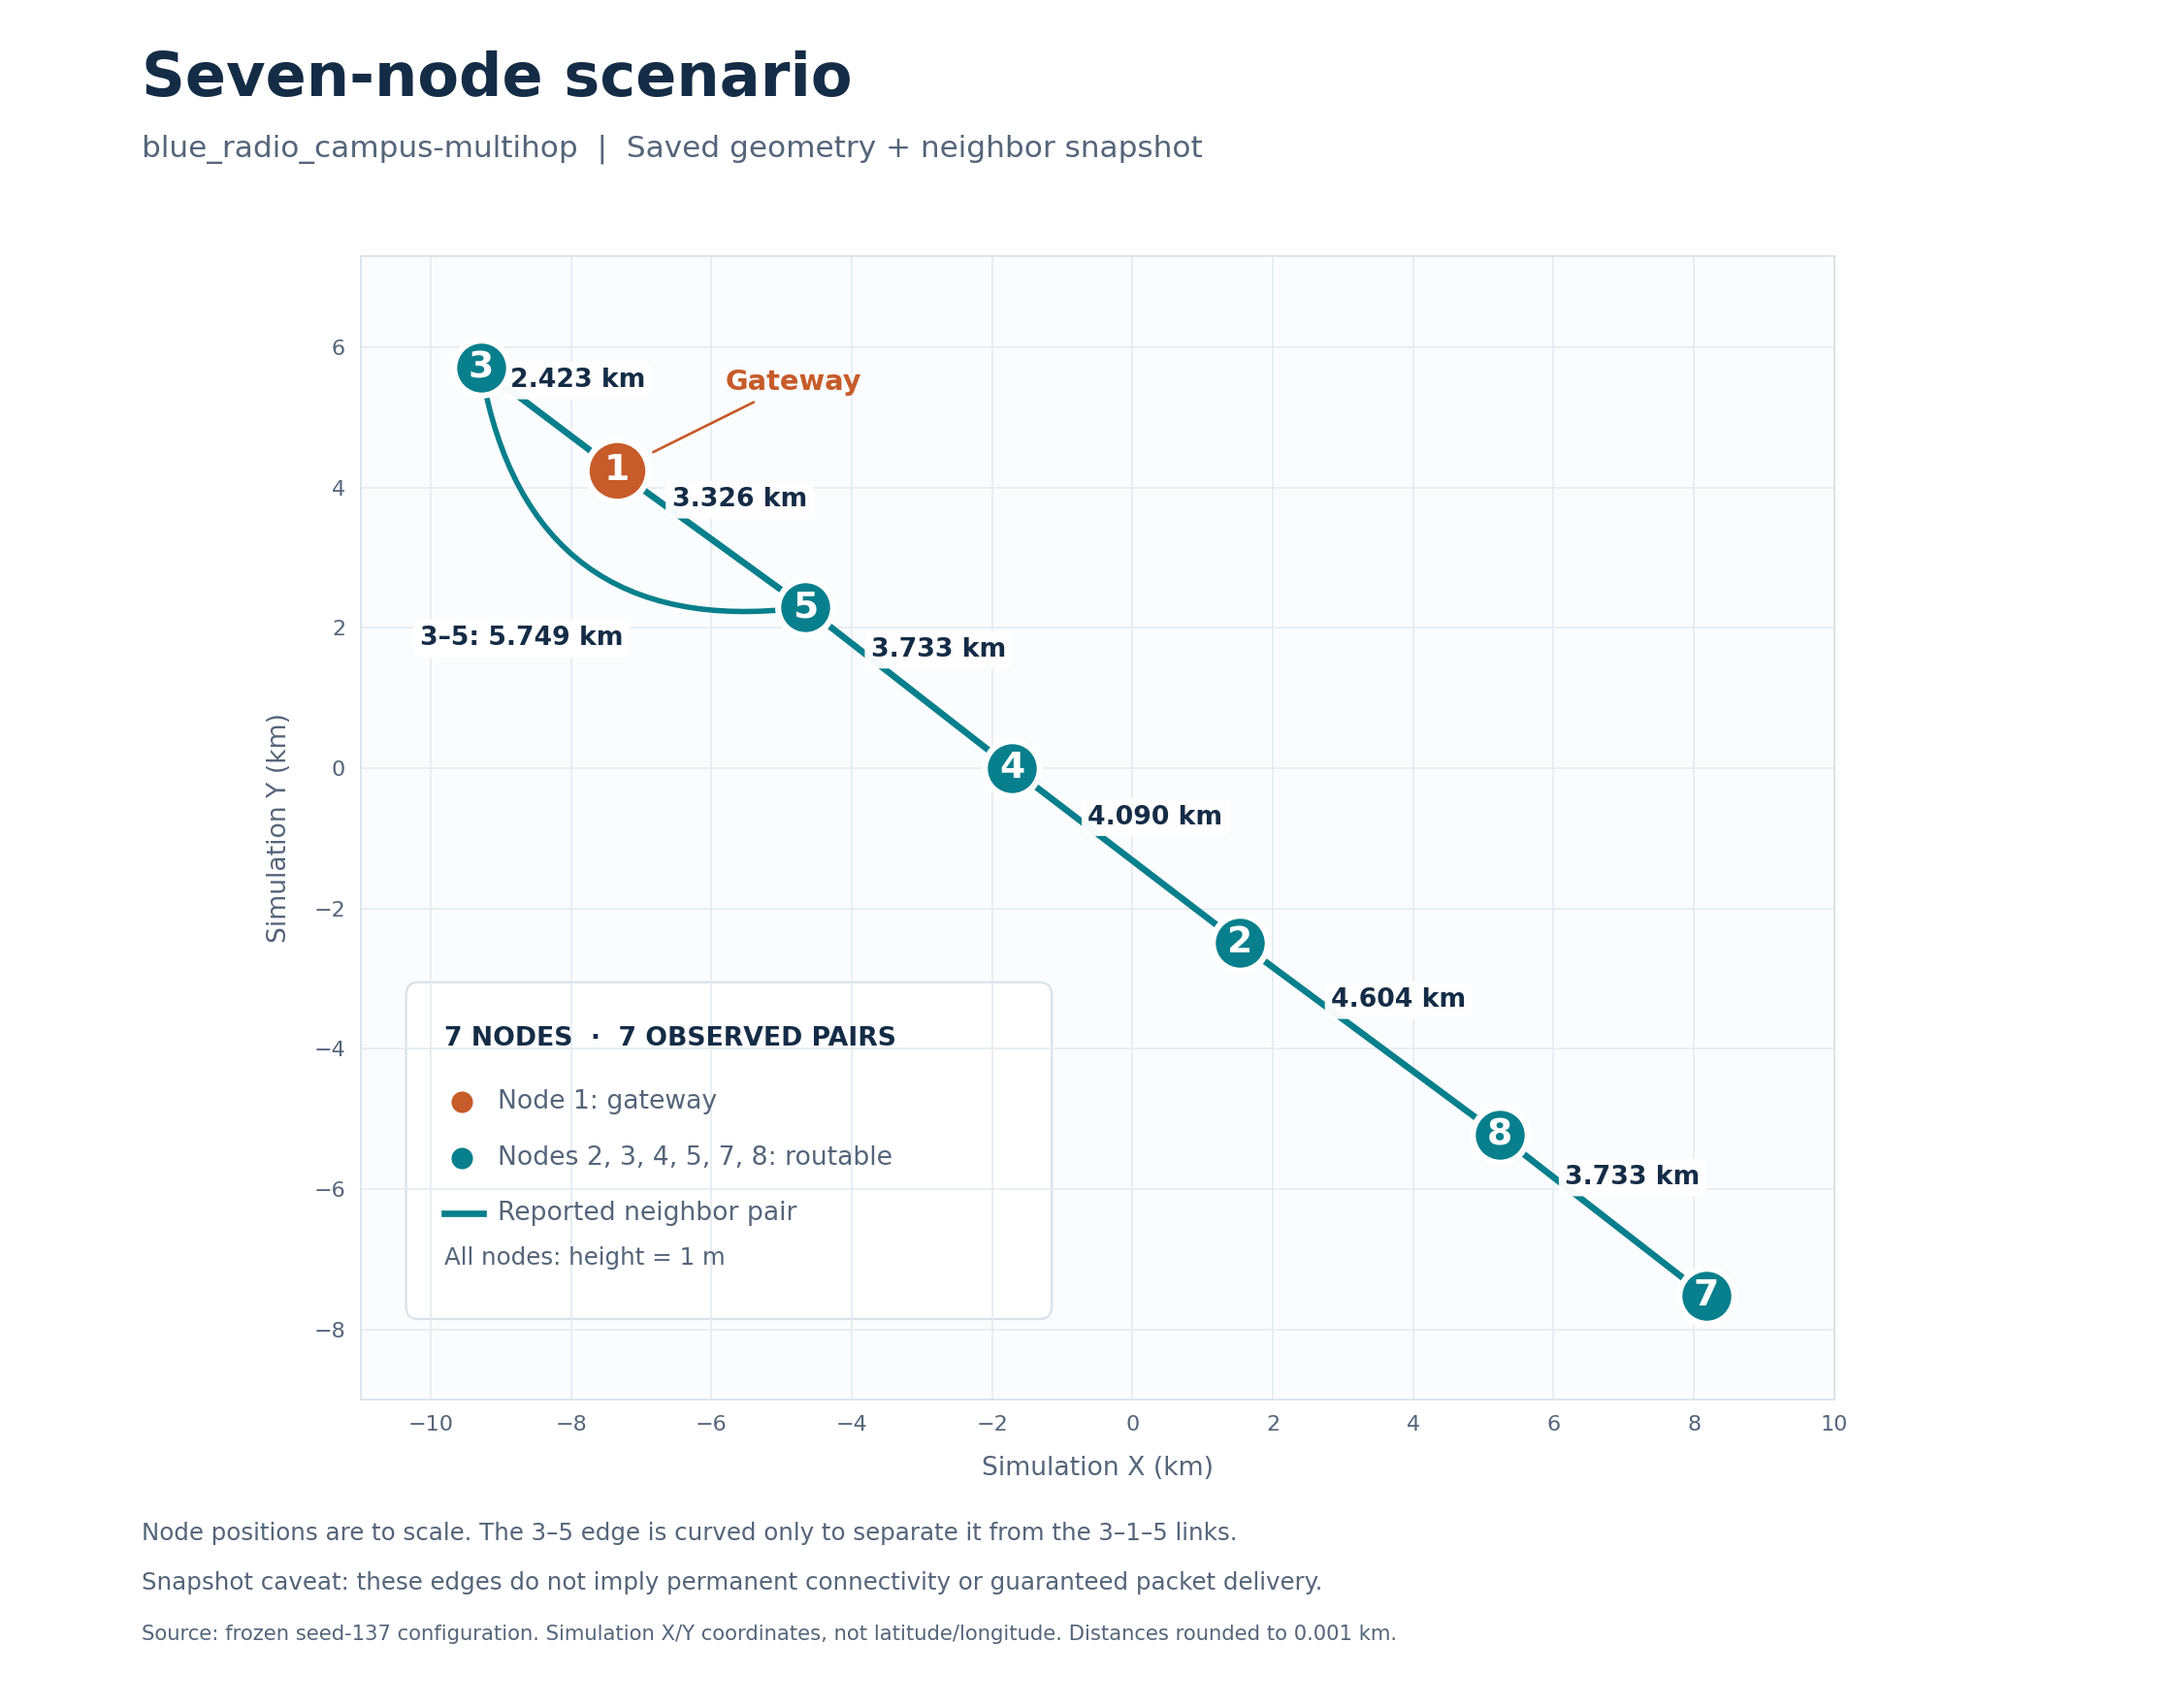
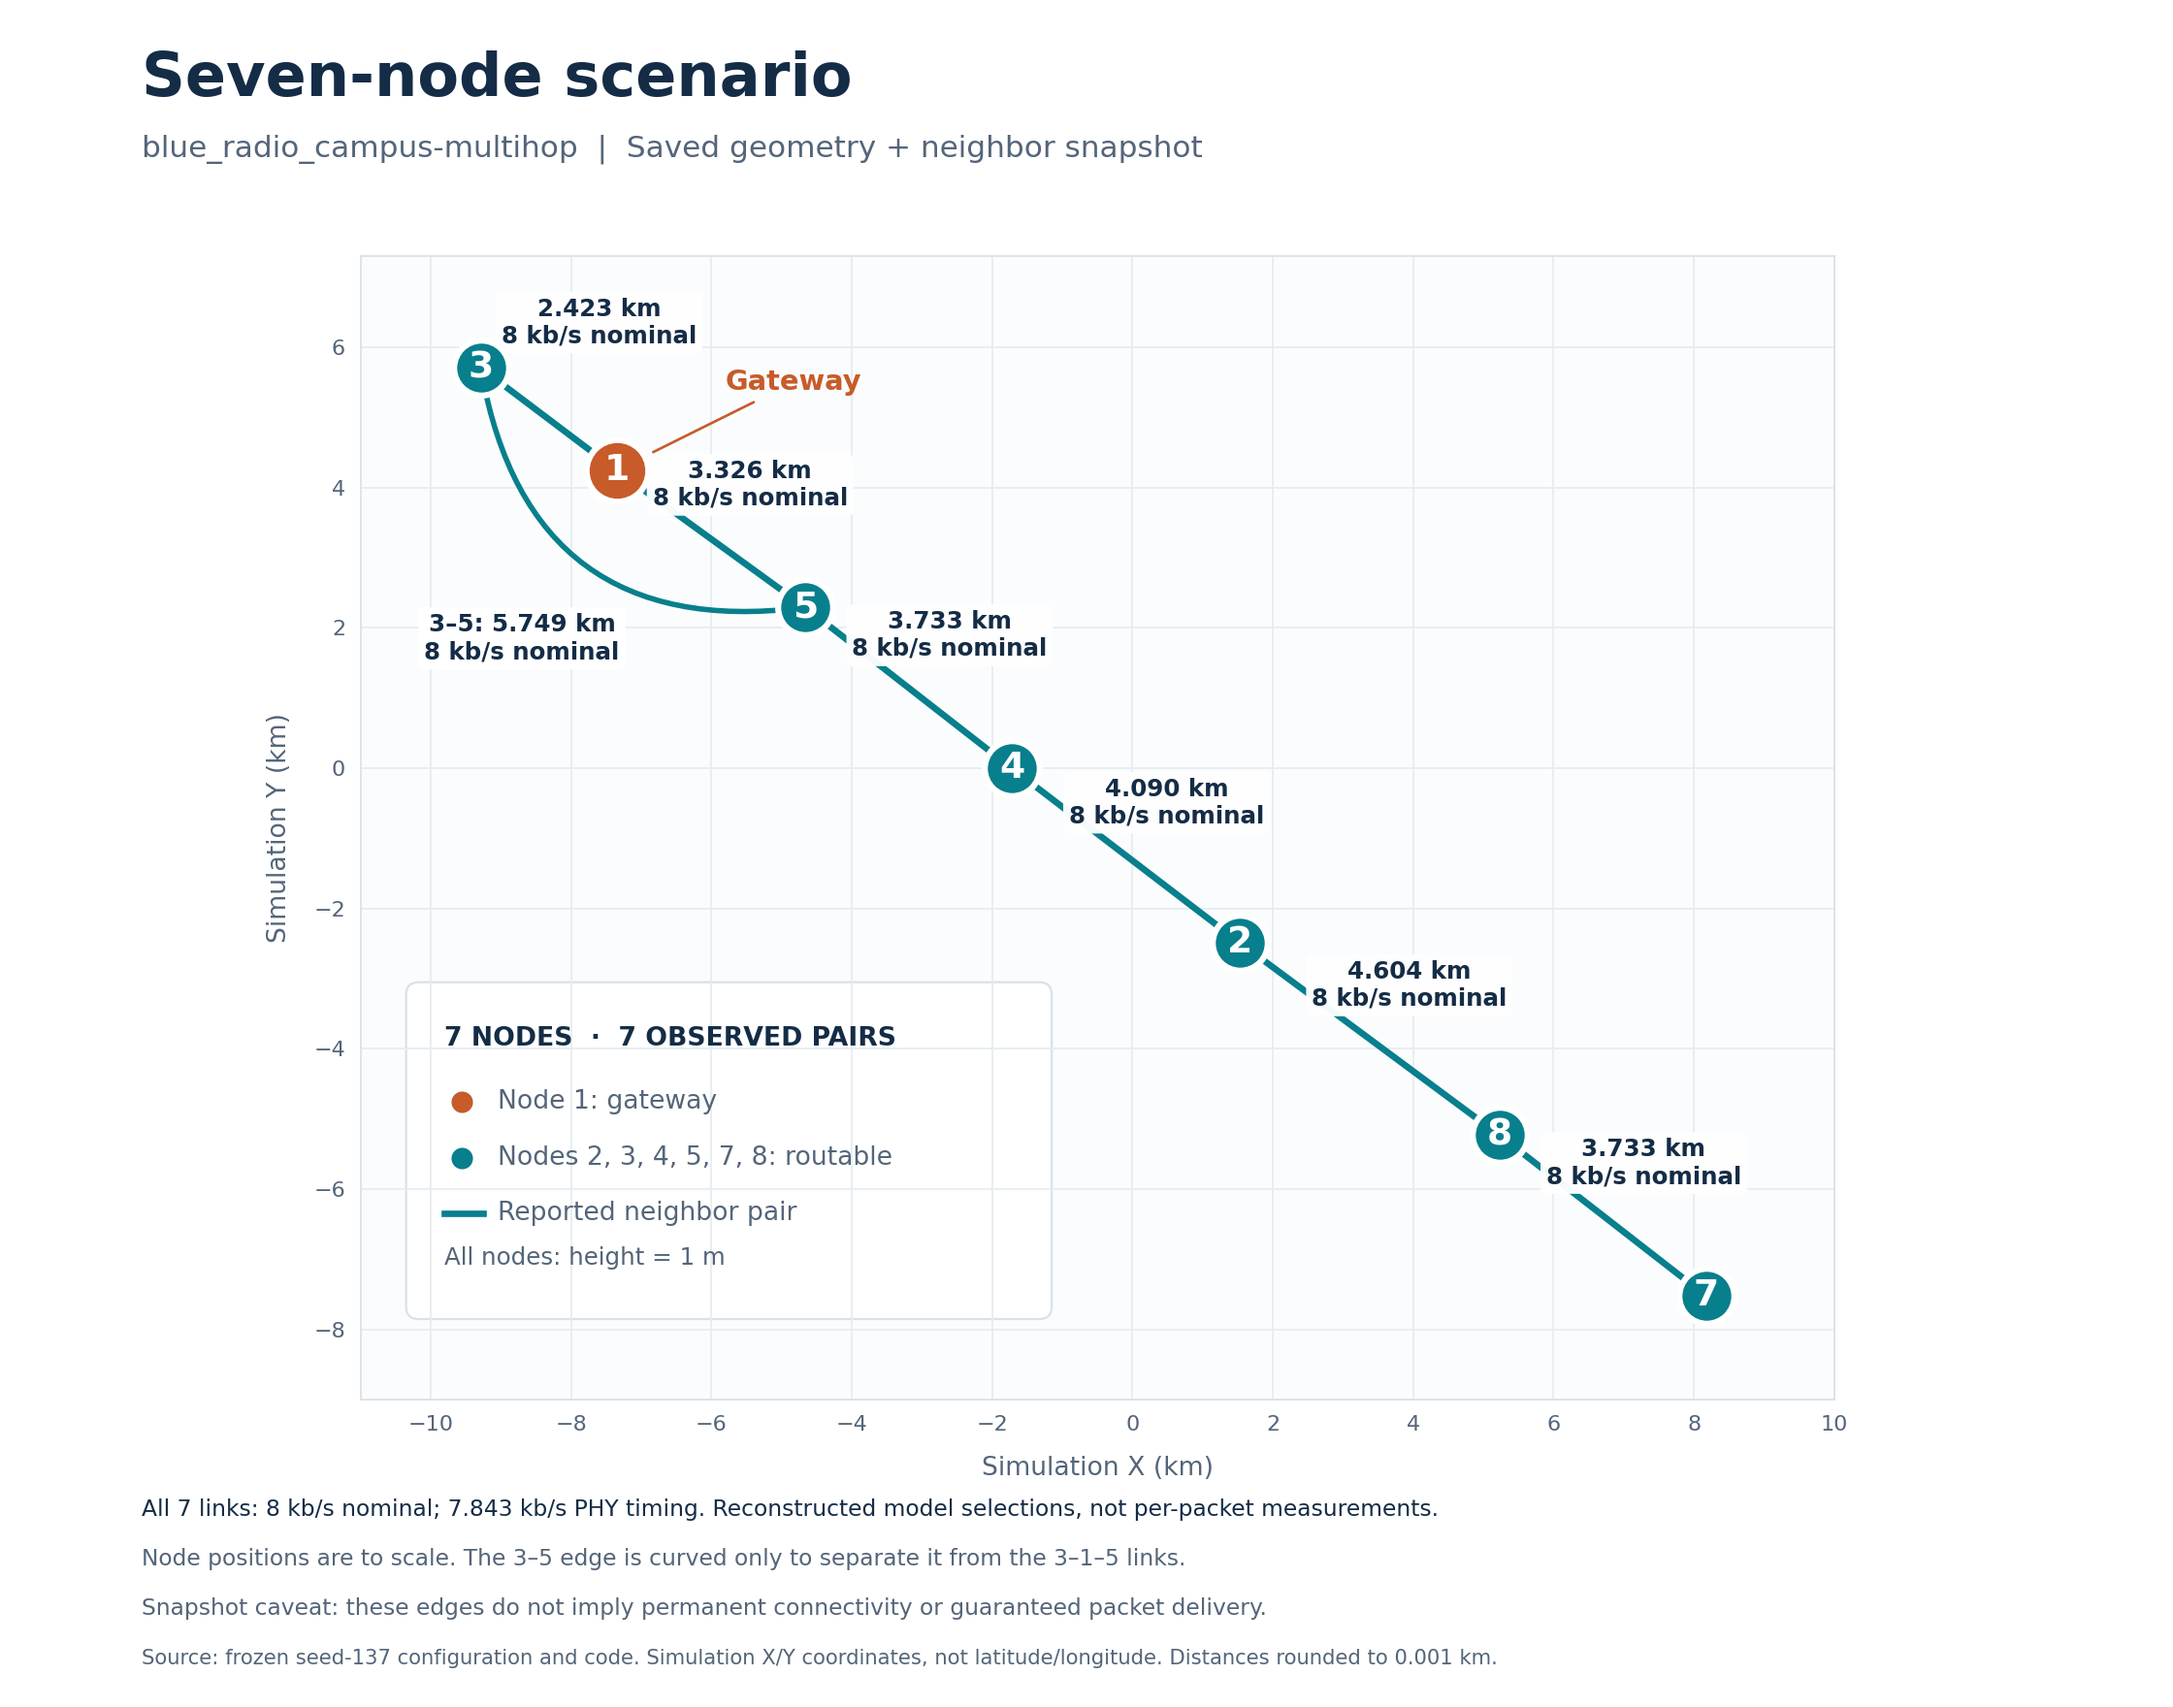
docs: label reconstructed scenario link rates

diff --git a/docs/seven-node-scenario.md b/docs/seven-node-scenario.md
@@ -1,6 +1,6 @@
 # Seven-node scenario
 
-![Seven-node campus-multihop scenario with node positions to scale and neighbor-pair distances in kilometres](figures/seven-node-scenario.png)
+![Seven-node campus-multihop scenario with node positions to scale, neighbor-pair distances in kilometres, and reconstructed nominal link rates](figures/seven-node-scenario.png)
 
 The plot shows the saved `blue_radio_campus-multihop` geometry and the frozen seed-137 neighbor snapshot.
 
@@ -9,5 +9,17 @@ The plot shows the saved `blue_radio_campus-multihop` geometry and the frozen se
 - Node 1 is the gateway. The other node IDs are 2, 3, 4, 5, 7 and 8. The saved numbering is preserved; this snapshot has no node 6.
 - The seven lines represent reported neighbor pairs in this snapshot. They do not imply permanent connectivity or guaranteed packet delivery.
 - The 3–5 link is curved only for legibility, to separate it from the 3–1–5 links. Its labelled 5.749 km distance is the straight-line separation, not the length of the drawn curve.
+
+## Link-rate labels
+
+All seven plotted pairs (1–3, 1–5, 5–4, 4–2, 2–8, 8–7 and 3–5) have a reconstructed model-selected nominal rate of **8 kb/s** for the frozen seed-137 snapshot. These labels come from the saved configuration and frozen rate-selection code, not measured per-packet rate logs. They are not measured throughput or goodput.
+
+The nominal value is the legacy `RateKeyKbps` label. At rate key 8, the PHY timing model uses a four-bit interval of 0.000510 seconds, giving `4 / 0.000510 = 7843.137... bit/s`, or **7.843 kb/s** rounded to three decimals. This timing rate is also model-derived, not a packet measurement.
+
+Frozen source references, pinned to the baseline commit:
+
+- [Radio-option selection](https://github.com/mjburke4/CSR-Project-MATLAB-Sim/blob/25fcedd3dcabd411fd670dbd5b22bcacb1124e83/diagnostics/relay-custody/current-policy/component-adapter/frozen/%2Bac/DiscoveryMembershipNwk.m#L1017-L1053).
+- [Link-cost rate selection](https://github.com/mjburke4/CSR-Project-MATLAB-Sim/blob/25fcedd3dcabd411fd670dbd5b22bcacb1124e83/diagnostics/relay-custody/current-policy/component-adapter/frozen/model/%2Bcsr/%2Bnwk/linkCost.m#L23-L47).
+- [Nominal key and PHY timing rate](https://github.com/mjburke4/CSR-Project-MATLAB-Sim/blob/25fcedd3dcabd411fd670dbd5b22bcacb1124e83/diagnostics/relay-custody/current-policy/component-adapter/frozen/model/%2Bcsr/%2Bphy/rateDefinition.m#L18-L46).
 
 This is a documentation figure, not a new simulation run or a change to the scenario configuration.
